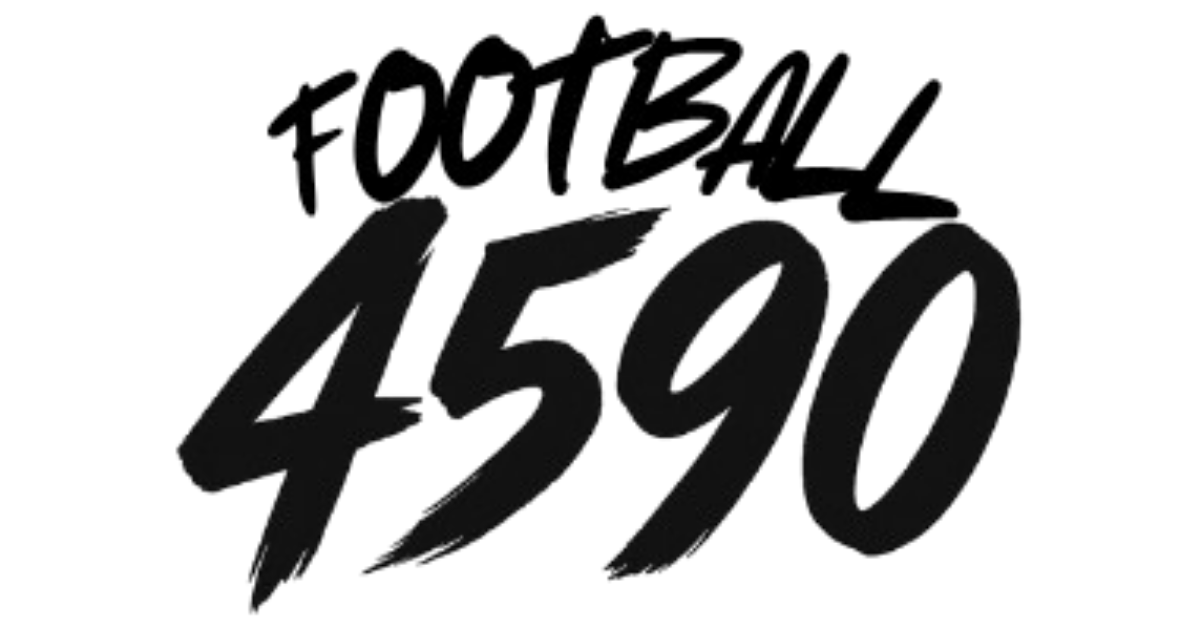
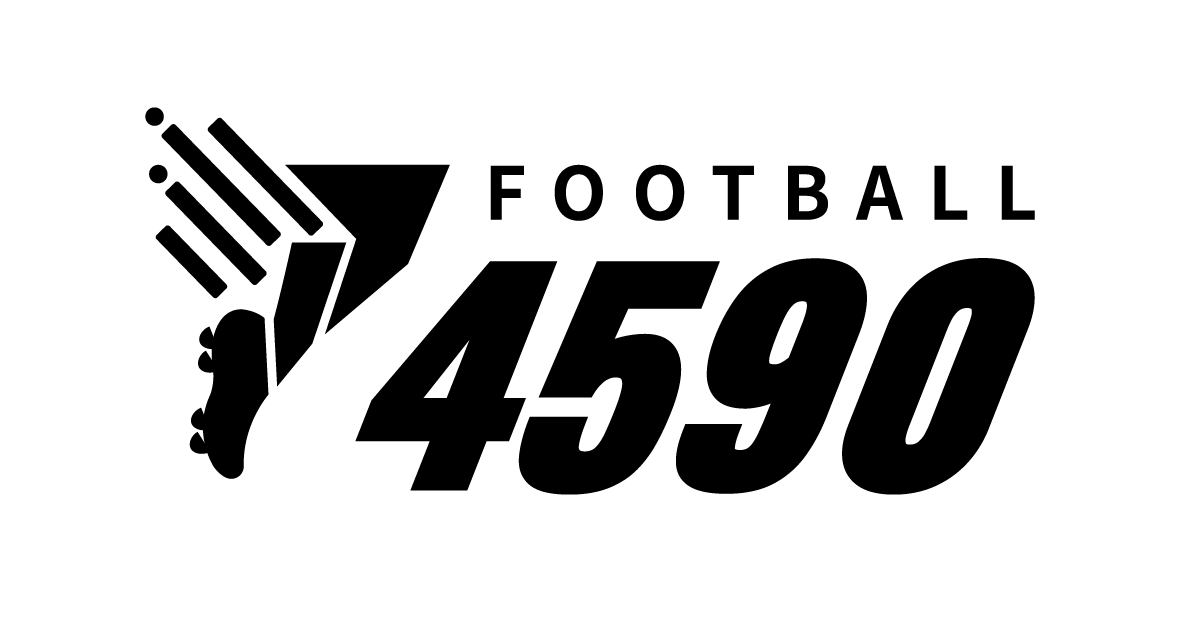
파비콘 수정

Changed region(s): [[0.1233, 0.0302, 0.8633, 0.9651]]

diff --git a/src/app/layout.tsx b/src/app/layout.tsx
@@ -46,14 +46,14 @@ export const metadata: Metadata = {
   },
   icons: {
     icon: [
-      { url: '/favicon.ico?v=2', sizes: 'any' },
-      { url: '/favicon-16x16.png?v=2', sizes: '16x16', type: 'image/png' },
-      { url: '/favicon-32x32.png?v=2', sizes: '32x32', type: 'image/png' },
-      { url: '/favicon-48x48.png?v=2', sizes: '48x48', type: 'image/png' },
-      { url: '/favicon-96x96.png?v=2', sizes: '96x96', type: 'image/png' },
-      { url: '/favicon.svg?v=2', type: 'image/svg+xml' },
-      { url: '/android-chrome-192x192.png?v=2', sizes: '192x192', type: 'image/png' },
-      { url: '/android-chrome-512x512.png?v=2', sizes: '512x512', type: 'image/png' },
+      { url: '/favicon.ico', sizes: 'any' },
+      { url: '/favicon-16x16-v2.png', sizes: '16x16', type: 'image/png' },
+      { url: '/favicon-32x32-v2.png', sizes: '32x32', type: 'image/png' },
+      { url: '/favicon-48x48-v2.png', sizes: '48x48', type: 'image/png' },
+      { url: '/favicon-96x96-v2.png', sizes: '96x96', type: 'image/png' },
+      { url: '/favicon.svg', type: 'image/svg+xml' },
+      { url: '/android-chrome-192x192-v2.png', sizes: '192x192', type: 'image/png' },
+      { url: '/android-chrome-512x512-v2.png', sizes: '512x512', type: 'image/png' },
     ],
     apple: [
       { url: '/apple-touch-icon-v2.png', sizes: '180x180', type: 'image/png' },